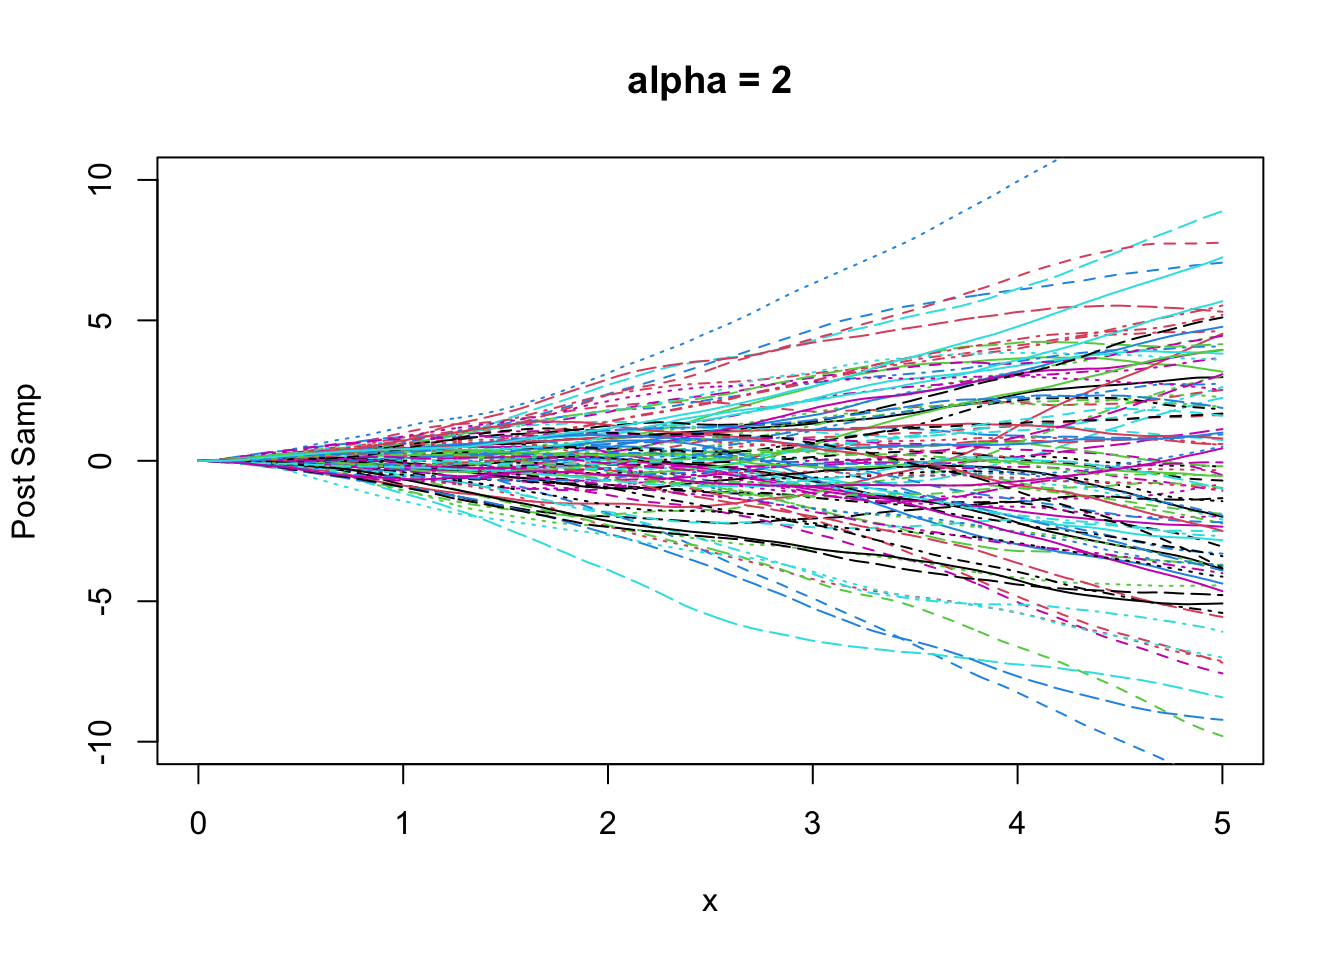
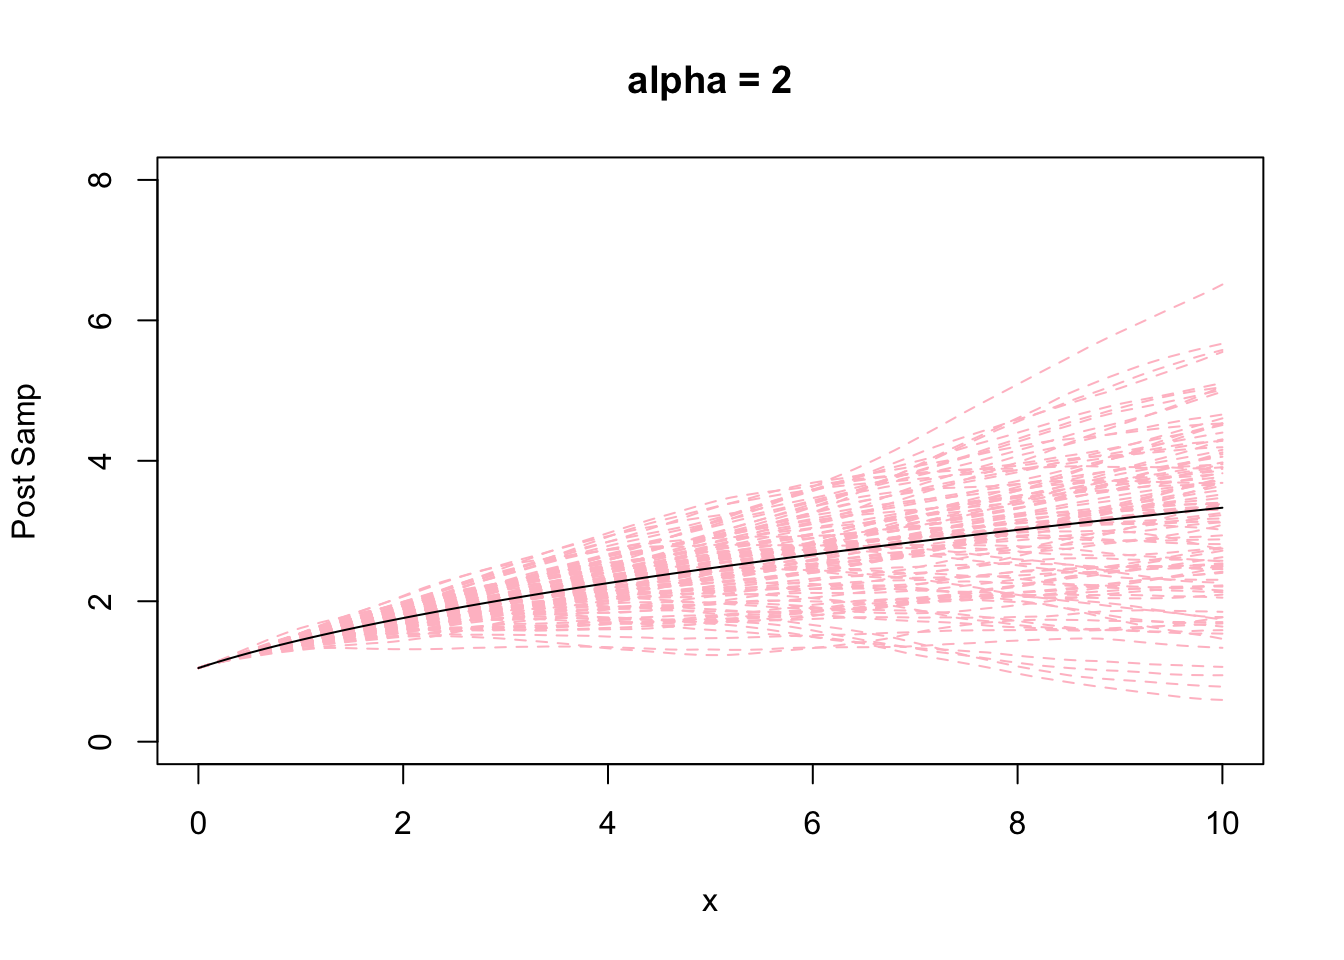
Build site.

diff --git a/docs/mGP_vs_tIWP2.html b/docs/mGP_vs_tIWP2.html
@@ -519,15 +519,15 @@ project makes it easier to run your code on other machines.</p>
 <div class="panel panel-default">
 <div class="panel-heading">
 <p class="panel-title">
-<a data-toggle="collapse" data-parent="#workflowr-checks" href="#strongRepositoryversionstrongahrefhttpsgithubcomAgueroZZsummaryMGPtree00a7b5dd89b4e150e397802a82a43cfca1fdb223targetblank00a7b5da">
+<a data-toggle="collapse" data-parent="#workflowr-checks" href="#strongRepositoryversionstrongahrefhttpsgithubcomAgueroZZsummaryMGPtreef9aff2d32cd4bd027e9a681c2f9aea9f611aabeetargetblankf9aff2da">
 <span class="glyphicon glyphicon-ok text-success"
 aria-hidden="true"></span> <strong>Repository version:</strong>
-<a href="https://github.com/AgueroZZ/summary_M_GP/tree/00a7b5dd89b4e150e397802a82a43cfca1fdb223" target="_blank">00a7b5d</a>
+<a href="https://github.com/AgueroZZ/summary_M_GP/tree/f9aff2d32cd4bd027e9a681c2f9aea9f611aabee" target="_blank">f9aff2d</a>
 </a>
 </p>
 </div>
 <div
[2 lines of base64/hex data omitted]
 class="panel-collapse collapse">
 <div class="panel-body">
 <p>
@@ -537,7 +537,7 @@ reproducibility.
 </p>
 <p>
 The results in this page were generated with repository version
-<a href="https://github.com/AgueroZZ/summary_M_GP/tree/00a7b5dd89b4e150e397802a82a43cfca1fdb223" target="_blank">00a7b5d</a>.
+<a href="https://github.com/AgueroZZ/summary_M_GP/tree/f9aff2d32cd4bd027e9a681c2f9aea9f611aabee" target="_blank">f9aff2d</a>.
 See the <em>Past versions</em> tab to see a history of the changes made
 to the R Markdown and HTML files.
 </p>
@@ -558,10 +558,6 @@ Ignored files:
     Ignored:    .Rproj.user/
     Ignored:    analysis/.Rhistory
     Ignored:    code/.DS_Store
-
-Unstaged changes:
-    Modified:   analysis/sampling.rmd
-    Modified:   code/03-sampling.R
 
 </code></pre>
 <p>
@@ -607,6 +603,40 @@ Message
 </tr>
 </thead>
 <tbody>
+<tr>
+<td>
+Rmd
+</td>
+<td>
+<a href="https://github.com/AgueroZZ/summary_M_GP/blob/f9aff2d32cd4bd027e9a681c2f9aea9f611aabee/analysis/mGP_vs_tIWP2.rmd" target="_blank">f9aff2d</a>
+</td>
+<td>
+Ziang Zhang
+</td>
+<td>
+2024-06-27
+</td>
+<td>
+wflow_publish(all = T)
+</td>
+</tr>
+<tr>
+<td>
+html
+</td>
+<td>
+<a href="https://rawcdn.githack.com/AgueroZZ/summary_M_GP/2b5cbdb37c5a22face7eb517378e106db83ad094/docs/mGP_vs_tIWP2.html" target="_blank">2b5cbdb</a>
+</td>
+<td>
+Ziang Zhang
+</td>
+<td>
+2024-06-27
+</td>
+<td>
+Build site.
+</td>
+</tr>
 <tr>
 <td>
 Rmd
@@ -743,6 +773,8 @@ g_2(x)dx  \bigg].
 </div>
 <div id="comparison-of-samples" class="section level2">
 <h2><strong>Comparison of samples</strong></h2>
+<div id="when-mx-sqrtxc" class="section level3">
+<h3>When <span class="math inline">\(m(x) = \sqrt(x+c)\)</span>:</h3>
 <pre class="r"><code>library(tidyverse)
 library(Matrix)
 source(&quot;code/01-state-space.R&quot;)
@@ -754,32 +786,152 @@ priors and compare the samples when <span class="math inline">\(m(x) =
 <p>For the M-GP prior:</p>
 <pre class="r"><code>B = 100
 c &lt;- 1.1
-samps0 &lt;- mGP_sim(mesh_size = 0.01, max_t = 5, alpha = (2), c = c)
+m &lt;- function(x) {sqrt(x+c)}
+m_deriv &lt;- function(x) {1/(2*sqrt(x+c))}
+
+samps0 &lt;- mGP_sim(mesh_size = 0.1, max_t = 10, alpha = (2), c = c, initial_vec = c(m(0),m_deriv(0)), sd = 0.1)
 result0 &lt;- samps0[,1:2]
 for (i in 1:B) {
-  samps0 &lt;- mGP_sim(mesh_size = 0.01, max_t = 5, alpha = (2), c = c)
+  samps0 &lt;- mGP_sim(mesh_size = 0.1, max_t = 10, alpha = (2), c = c, initial_vec = c(m(0),m_deriv(0)), sd = 0.1)
   result0 &lt;- cbind(result0, samps0[,2])
 }
-matplot(x = result0[,1], y = result0[,-1], type = &#39;l&#39;, ylab = &quot;Post Samp&quot;, xlab = &quot;x&quot;, main = &quot;alpha = 2&quot;, ylim = c(-10,10))</code></pre>
+# result0[1:nrow(result0),-1] &lt;- result0[1:nrow(result0),-1]/sd(result0[nrow(result0),-1])
+matplot(x = result0[,1], y = result0[,-1], type = &#39;l&#39;, ylab = &quot;Post Samp&quot;, xlab = &quot;x&quot;, main = &quot;alpha = 2&quot;, ylim = c(0,8), lty = &quot;dashed&quot;, col = &quot;pink&quot;)
+lines(x = result0[,1], y = m(result0[,1]), col = &quot;black&quot;, lty = &quot;solid&quot;)</code></pre>
 <p><img src="figure/mGP_vs_tIWP2.rmd/unnamed-chunk-2-1.png" width="672" style="display: block; margin: auto;" /></p>
+<p>
+<button type="button" class="btn btn-default btn-xs btn-workflowr btn-workflowr-fig" data-toggle="collapse" data-target="#fig-unnamed-chunk-2-1">
+Past versions of unnamed-chunk-2-1.png
+</button>
+</p>
+<div id="fig-unnamed-chunk-2-1" class="collapse">
+<div class="table-responsive">
+<table class="table table-condensed table-hover">
+<thead>
+<tr>
+<th>
+Version
+</th>
+<th>
+Author
+</th>
+<th>
+Date
+</th>
+</tr>
+</thead>
+<tbody>
+<tr>
+<td>
+<a href="https://github.com/AgueroZZ/summary_M_GP/blob/2b5cbdb37c5a22face7eb517378e106db83ad094/docs/figure/mGP_vs_tIWP2.rmd/unnamed-chunk-2-1.png" target="_blank">2b5cbdb</a>
+</td>
+<td>
+Ziang Zhang
+</td>
+<td>
+2024-06-27
+</td>
+</tr>
+</tbody>
+</table>
+</div>
+</div>
 <p>For the t-IWP2 prior:</p>
 <pre class="r"><code># set the original grid
-t &lt;- seq(0, 5, by = 0.01)
+t &lt;- seq(0, 10, by = 0.1)
 # compute the transformed grid
-t_trans &lt;- c(sqrt(t + c))
+t_trans &lt;- m(t)
 
 # sampling from tIWP2
-samps1 &lt;- sim_IWp_Var(t = t_trans, p = 2, sigmaS = 1)</code></pre>
-<pre><code>Registered S3 method overwritten by &#39;quantmod&#39;:
-  method            from
-  as.zoo.data.frame zoo </code></pre>
-<pre class="r"><code>result1 &lt;- cbind(c(t), samps1[,2])
+samps1 &lt;- sim_IWp_Var(t = t_trans, p = 2, sd = 0.1, initial_vec = c(m(0),1))
+result1 &lt;- cbind(c(t), samps1[,2])
 for (i in 1:B) {
-  samps1 &lt;- sim_IWp_Var(t = t_trans, p = 2, sigmaS = 1)
+  samps1 &lt;- sim_IWp_Var(t = t_trans, p = 2, sd = 0.1, initial_vec = c(m(0),1))
   result1 &lt;- cbind(result1, samps1[,2])
 }
-matplot(x = result1[,1], y = result1[,-1], type = &#39;l&#39;, ylab = &quot;Post Samp&quot;, xlab = &quot;x&quot;, main = &quot;tIWP2&quot;, ylim = c(-10,10))</code></pre>
+# result1[1:nrow(result1),-1] &lt;- result1[1:nrow(result1),-1]/sd(result1[nrow(result1),-1])
+matplot(x = result1[,1], y = result1[,-1], type = &#39;l&#39;, ylab = &quot;Post Samp&quot;, xlab = &quot;x&quot;, main = &quot;tIWP2&quot;, ylim = c(0,8), lty = &quot;dashed&quot;, col = &quot;pink&quot;)
+lines(x = result1[,1], y = m(result1[,1]), col = &quot;black&quot;, lty = &quot;solid&quot;)</code></pre>
 <p><img src="figure/mGP_vs_tIWP2.rmd/unnamed-chunk-3-1.png" width="672" style="display: block; margin: auto;" /></p>
+<p>
+<button type="button" class="btn btn-default btn-xs btn-workflowr btn-workflowr-fig" data-toggle="collapse" data-target="#fig-unnamed-chunk-3-1">
+Past versions of unnamed-chunk-3-1.png
+</button>
+</p>
+<div id="fig-unnamed-chunk-3-1" class="collapse">
+<div class="table-responsive">
+<table class="table table-condensed table-hover">
+<thead>
+<tr>
+<th>
+Version
+</th>
+<th>
+Author
+</th>
+<th>
+Date
+</th>
+</tr>
+</thead>
+<tbody>
+<tr>
+<td>
+<a href="https://github.com/AgueroZZ/summary_M_GP/blob/2b5cbdb37c5a22face7eb517378e106db83ad094/docs/figure/mGP_vs_tIWP2.rmd/unnamed-chunk-3-1.png" target="_blank">2b5cbdb</a>
+</td>
+<td>
+Ziang Zhang
+</td>
+<td>
+2024-06-27
+</td>
+</tr>
+</tbody>
+</table>
+</div>
+</div>
+<p>Compare the variance of the two priors:</p>
+<pre class="r"><code>## Variance of overtime:
+var0 &lt;- apply(result0[,-1], 1, var)
+var1 &lt;- apply(result1[,-1], 1, var)
+plot(x = result0[,1], y = var0, type = &#39;l&#39;, ylab = &quot;Variance&quot;, xlab = &quot;x&quot;, main = &quot;Variance of samples&quot;, ylim = c(0,5), lty = &quot;dashed&quot;, col = &quot;pink&quot;)
+lines(x = result1[,1], y = var1, col = &quot;black&quot;, lty = &quot;solid&quot;)</code></pre>
+<p><img src="figure/mGP_vs_tIWP2.rmd/unnamed-chunk-4-1.png" width="672" style="display: block; margin: auto;" /></p>
+</div>
+<div id="when-mx-xc3" class="section level3">
+<h3>When <span class="math inline">\(m(x) = (x+c)^3\)</span>:</h3>
+<pre class="r"><code>m &lt;- function(x) {(x+c)^3}
+m_deriv &lt;- function(x) {3*(x+c)^2}
+samps0 &lt;- mGP_sim(mesh_size = 0.1, max_t = 10, alpha = (-1/2), c = c, initial_vec = c(m(0),m_deriv(0)), sd = 0.1)
+result0 &lt;- samps0[,1:2]
+for (i in 1:B) {
+  samps0 &lt;- mGP_sim(mesh_size = 0.1, max_t = 10, alpha = (-1/2), c = c, initial_vec = c(m(0),m_deriv(0)), sd = 0.1)
+  result0 &lt;- cbind(result0, samps0[,2])
+}
+matplot(x = result0[,1], y = result0[,-1], type = &#39;l&#39;, ylab = &quot;Post Samp&quot;, xlab = &quot;x&quot;, main = &quot;alpha = -1/2&quot;, lty = &quot;dashed&quot;, col = &quot;pink&quot;)
+lines(x = result0[,1], y = m(result0[,1]), col = &quot;black&quot;, lty = &quot;solid&quot;)</code></pre>
+<p><img src="figure/mGP_vs_tIWP2.rmd/unnamed-chunk-5-1.png" width="672" style="display: block; margin: auto;" /></p>
+<pre class="r"><code># set the original grid
+t &lt;- seq(0, 10, by = 0.1)
+# compute the transformed grid
+t_trans &lt;- m(t)
+# sampling from tIWP2
+samps1 &lt;- sim_IWp_Var(t = t_trans, p = 2, sd = 0.1, initial_vec = c(m(0),1))
+result1 &lt;- cbind(c(t), samps1[,2])
+for (i in 1:B) {
+  samps1 &lt;- sim_IWp_Var(t = t_trans, p = 2, sd = 0.1, initial_vec = c(m(0),1))
+  result1 &lt;- cbind(result1, samps1[,2])
+}
+matplot(x = result1[,1], y = result1[,-1], type = &#39;l&#39;, ylab = &quot;Post Samp&quot;, xlab = &quot;x&quot;, main = &quot;tIWP2&quot;, lty = &quot;dashed&quot;, col = &quot;pink&quot;)
+lines(x = result1[,1], y = m(result1[,1]), col = &quot;black&quot;, lty = &quot;solid&quot;)</code></pre>
+<p><img src="figure/mGP_vs_tIWP2.rmd/unnamed-chunk-6-1.png" width="672" style="display: block; margin: auto;" /></p>
+<p>Compare the variance of the two priors:</p>
+<pre class="r"><code>## Variance of overtime:
+var0 &lt;- apply(result0[,-1], 1, var)
+var1 &lt;- apply(result1[,-1], 1, var)
+plot(x = result0[,1], y = var0, type = &#39;l&#39;, ylab = &quot;Variance&quot;, xlab = &quot;x&quot;, main = &quot;Variance of samples&quot;, ylim = c(0,1000), lty = &quot;dashed&quot;, col = &quot;pink&quot;)
+lines(x = result1[,1], y = var1, col = &quot;black&quot;, lty = &quot;solid&quot;)</code></pre>
+<p><img src="figure/mGP_vs_tIWP2.rmd/unnamed-chunk-7-1.png" width="672" style="display: block; margin: auto;" /></p>
 <br>
 <p>
 <button type="button" class="btn btn-default btn-workflowr btn-workflowr-sessioninfo" data-toggle="collapse" data-target="#workflowr-sessioninfo" style="display: block;">
@@ -812,34 +964,26 @@ other attached packages:
  [9] tibble_3.2.1    ggplot2_3.5.1   tidyverse_2.0.0 workflowr_1.7.1
 
 loaded via a namespace (and not attached):
- [1] tidyselect_1.2.0      timeDate_4022.108     fastmap_1.1.1        
- [4] promises_1.2.1        digest_0.6.33         timechange_0.2.0     
- [7] lifecycle_1.0.3       processx_3.8.2        magrittr_2.0.3       
-[10] compiler_4.3.1        rlang_1.1.1           sass_0.4.7           
-[13] tools_4.3.1           utf8_1.2.3            yaml_2.3.7           
-[16] knitr_1.44            mnormt_2.1.1          curl_5.1.0           
-[19] TTR_0.24.3            withr_2.5.1           nnet_7.3-19          
-[22] grid_4.3.1            fansi_1.0.5           git2r_0.33.0         
-[25] xts_0.13.1            colorspace_2.1-0      scales_1.3.0         
-[28] iterators_1.0.14      MASS_7.3-60           cli_3.6.1            
-[31] rmarkdown_2.25        tseriesChaos_0.1-13.1 generics_0.1.3       
-[34] rstudioapi_0.15.0     httr_1.4.7            LaplacesDemon_16.1.6 
-[37] tzdb_0.4.0            cachem_1.0.8          splines_4.3.1        
-[40] forecast_8.21.1       parallel_4.3.1        urca_1.3-3           
-[43] vars_1.5-9            vctrs_0.6.4           sandwich_3.0-2       
-[46] jsonlite_1.8.7        callr_3.7.3           hms_1.1.3            
-[49] tseries_0.10-54       foreach_1.5.2         jquerylib_0.1.4      
-[52] quantmod_0.4.25       glue_1.6.2            codetools_0.2-19     
-[55] ps_1.7.5              strucchange_1.5-3     stringi_1.7.12       
-[58] gtable_0.3.4          later_1.3.1           quadprog_1.5-8       
-[61] lmtest_0.9-40         munsell_0.5.0         tsDyn_11.0.4         
-[64] pillar_1.9.0          htmltools_0.5.6.1     deSolve_1.38         
-[67] R6_2.5.1              rprojroot_2.0.3       evaluate_0.22        
-[70] lattice_0.21-8        fracdiff_1.5-2        httpuv_1.6.11        
-[73] bslib_0.5.1           Rcpp_1.0.11           nlme_3.1-162         
-[76] mgcv_1.8-42           whisker_0.4.1         xfun_0.40            
-[79] fs_1.6.3              zoo_1.8-12            getPass_0.2-4        
-[82] pkgconfig_2.0.3      </code></pre>
+ [1] sass_0.4.7           utf8_1.2.3           generics_0.1.3      
+ [4] lattice_0.21-8       stringi_1.7.12       hms_1.1.3           
+ [7] digest_0.6.33        magrittr_2.0.3       timechange_0.2.0    
+[10] evaluate_0.22        grid_4.3.1           fastmap_1.1.1       
+[13] rprojroot_2.0.3      jsonlite_1.8.7       processx_3.8.2      
+[16] whisker_0.4.1        ps_1.7.5             promises_1.2.1      
+[19] httr_1.4.7           fansi_1.0.5          scales_1.3.0        
+[22] jquerylib_0.1.4      cli_3.6.1            rlang_1.1.1         
+[25] LaplacesDemon_16.1.6 munsell_0.5.0        withr_2.5.1         
+[28] cachem_1.0.8         yaml_2.3.7           parallel_4.3.1      
+[31] tools_4.3.1          tzdb_0.4.0           colorspace_2.1-0    
+[34] httpuv_1.6.11        vctrs_0.6.4          R6_2.5.1            
+[37] lifecycle_1.0.3      git2r_0.33.0         fs_1.6.3            
+[40] pkgconfig_2.0.3      callr_3.7.3          pillar_1.9.0        
+[43] bslib_0.5.1          later_1.3.1          gtable_0.3.4        
+[46] glue_1.6.2           Rcpp_1.0.11          xfun_0.40           
+[49] tidyselect_1.2.0     rstudioapi_0.15.0    knitr_1.44          
+[52] htmltools_0.5.6.1    rmarkdown_2.25       compiler_4.3.1      
+[55] getPass_0.2-4       </code></pre>
+</div>
 </div>
 </div>
 
